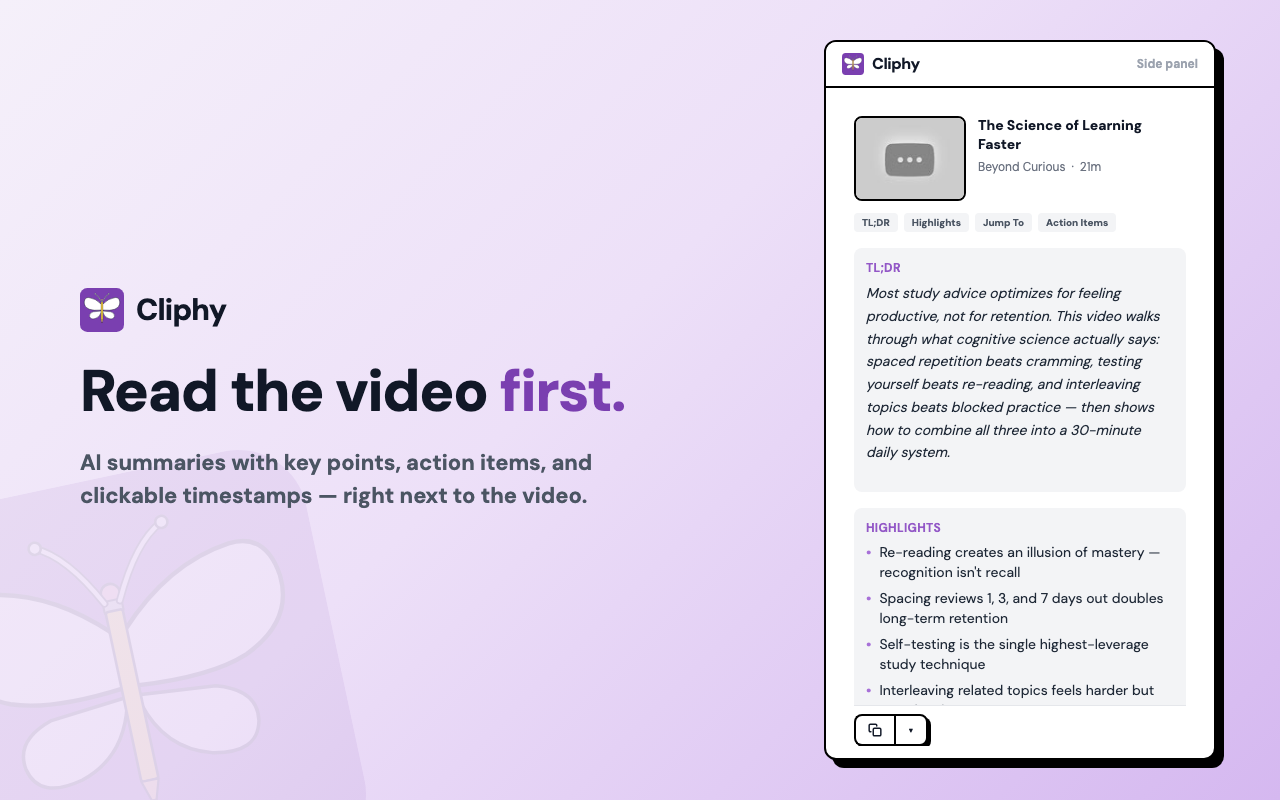
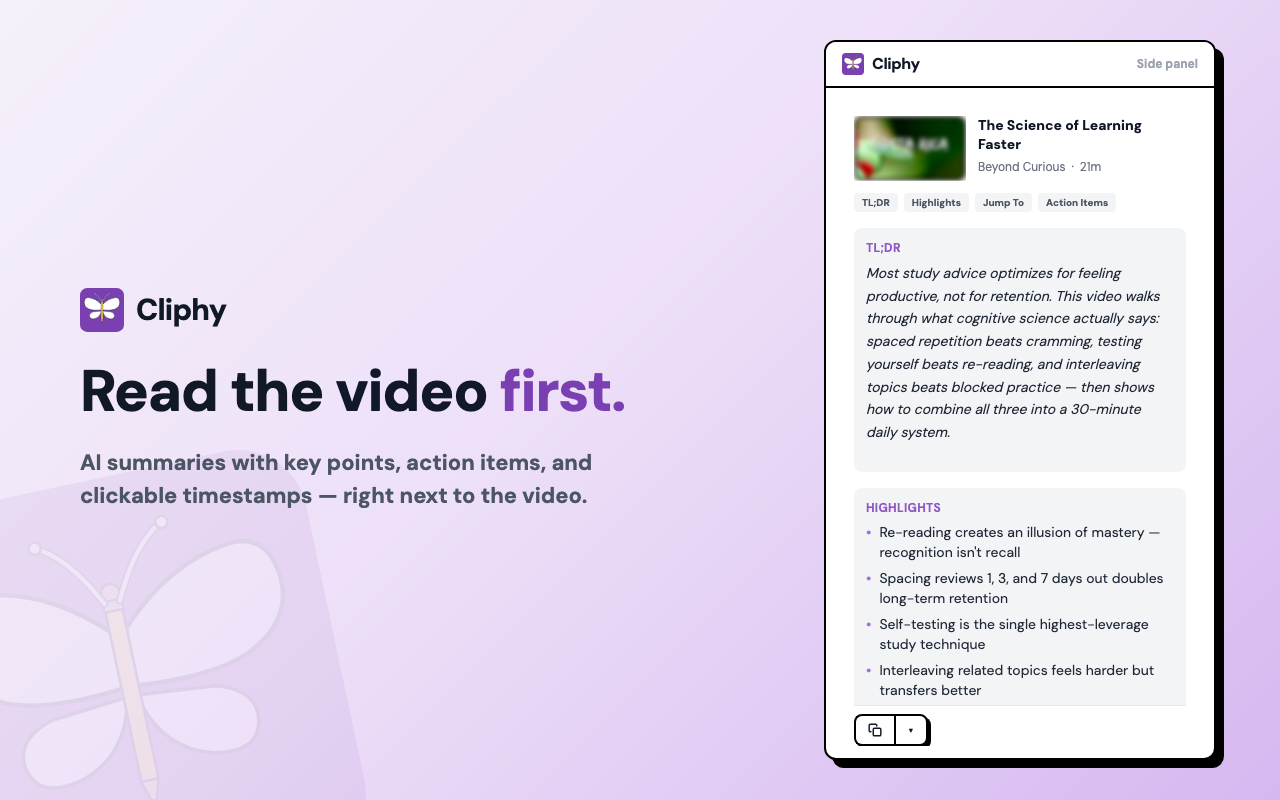
use real blurred YouTube thumbnails in store screenshots
Demo data now points at real video IDs so i.ytimg.com serves real
thumbnails; promo.css blurs them so content reads as real but
unidentifiable. Recaptured both 1280x800 screenshots.

Changed region(s): [[0.6562, 0.125, 0.9062, 0.5938], [0.6562, 0.625, 0.9062, 0.875]]

diff --git a/apps/web/promo/main.tsx b/apps/web/promo/main.tsx
@@ -26,7 +26,8 @@ const hoursAgo = (h: number) => new Date(Date.now() - h * 3600_000).toISOString(
 const demoSummary: Summary = {
   id: "demo-1",
   userId: "demo",
-  videoId: "demo-video",
+  // Real video IDs so i.ytimg.com serves real thumbnails (blurred via promo.css)
+  videoId: "LXb3EKWsInQ",
   videoTitle: "The Science of Learning Faster",
   videoChannel: "Beyond Curious",
   videoDurationSeconds: 1284,
@@ -67,7 +68,7 @@ const queueSummaries: Summary[] = [
   {
     id: "demo-2",
     userId: "demo",
-    videoId: "demo-video-2",
+    videoId: "M7lc1UVf-VE",
     videoTitle: "Inside the M4 Chip — Explained in 14 Minutes",
     videoChannel: "Silicon Decoded",
     videoDurationSeconds: 845,
@@ -79,7 +80,7 @@ const queueSummaries: Summary[] = [
   {
     id: "demo-3",
     userId: "demo",
-    videoId: "demo-video-3",
+    videoId: "jNQXAC9IVRw",
     videoTitle: "10 Python Tricks I Wish I Knew Earlier",
     videoChannel: "DevSimplified",
     videoDurationSeconds: 598,
@@ -96,7 +97,7 @@ const queueSummaries: Summary[] = [
   {
     id: "demo-4",
     userId: "demo",
-    videoId: "demo-video-4",
+    videoId: "9bZkp7q19f0",
     videoTitle: "The History of the Internet in 12 Minutes",
     videoChannel: "Timeline",
     videoDurationSeconds: 731,
@@ -108,7 +109,7 @@ const queueSummaries: Summary[] = [
 ];
 
 const demoVideo: VideoInfo = {
-  videoId: "current-demo",
+  videoId: "aqz-KE-bpKQ",
   title: "Why Top Athletes Train Less Than You Think",
   url: "https://www.youtube.com/watch?v=demo",
   channel: "Peak Performance Lab",

diff --git a/apps/web/promo/promo.css b/apps/web/promo/promo.css
@@ -2,6 +2,12 @@
 @source "../../extension/components";
 @source "./";
 
+/* Blur real YouTube thumbnails so demo content reads as real but unidentifiable */
+img[src*="i.ytimg.com"] {
+  filter: blur(2.5px) saturate(1.15);
+  clip-path: inset(0);
+}
+
 /* Promo scenes are screenshot targets — kill scrollbars and hover artifacts */
 html,
 body {
